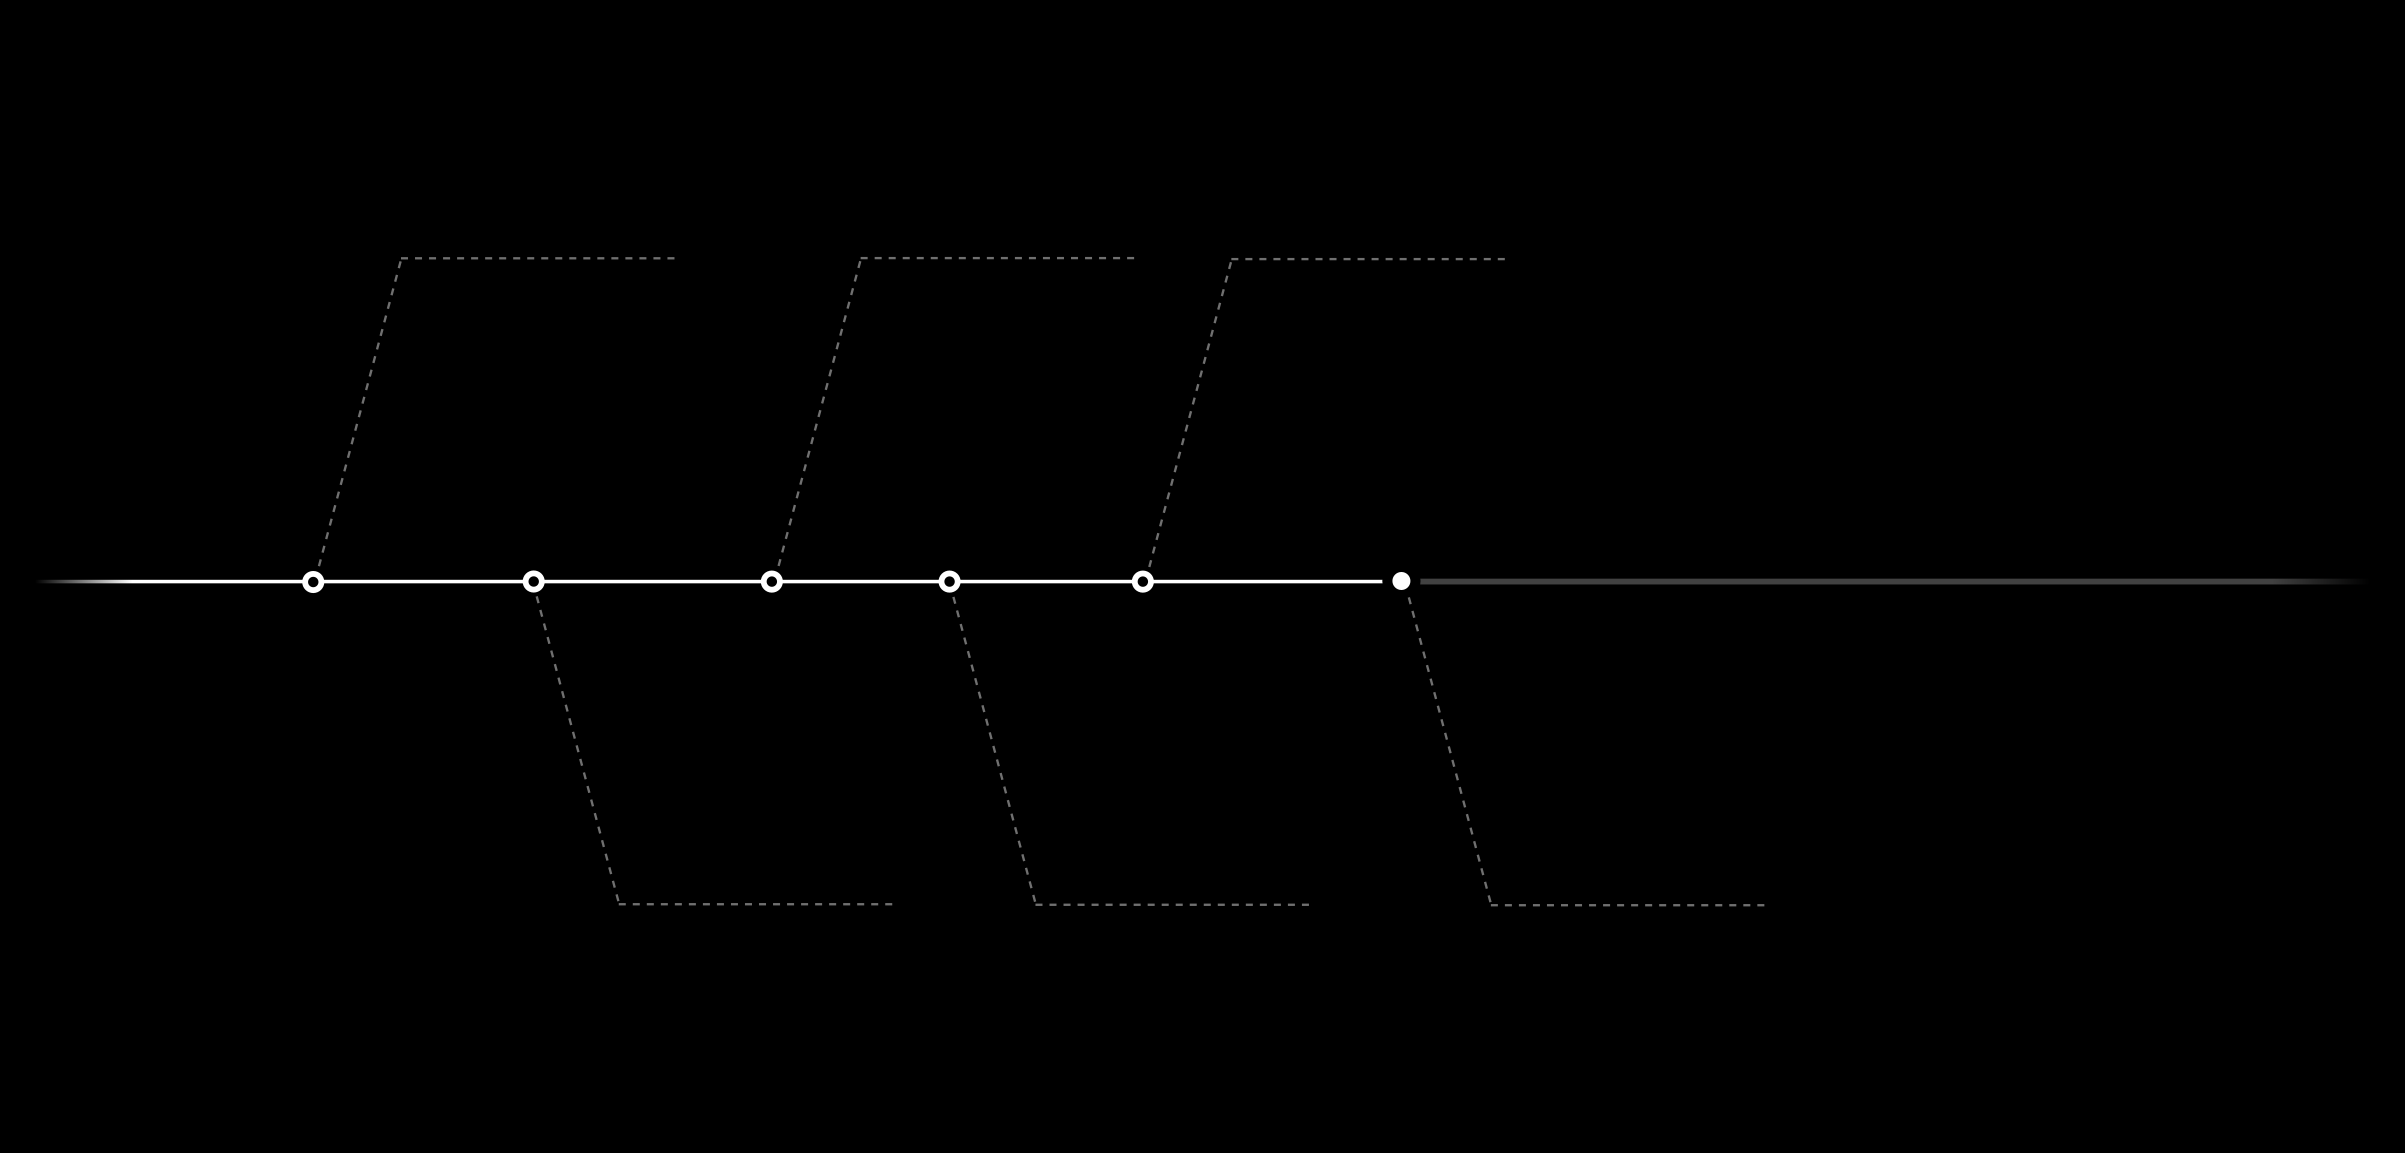
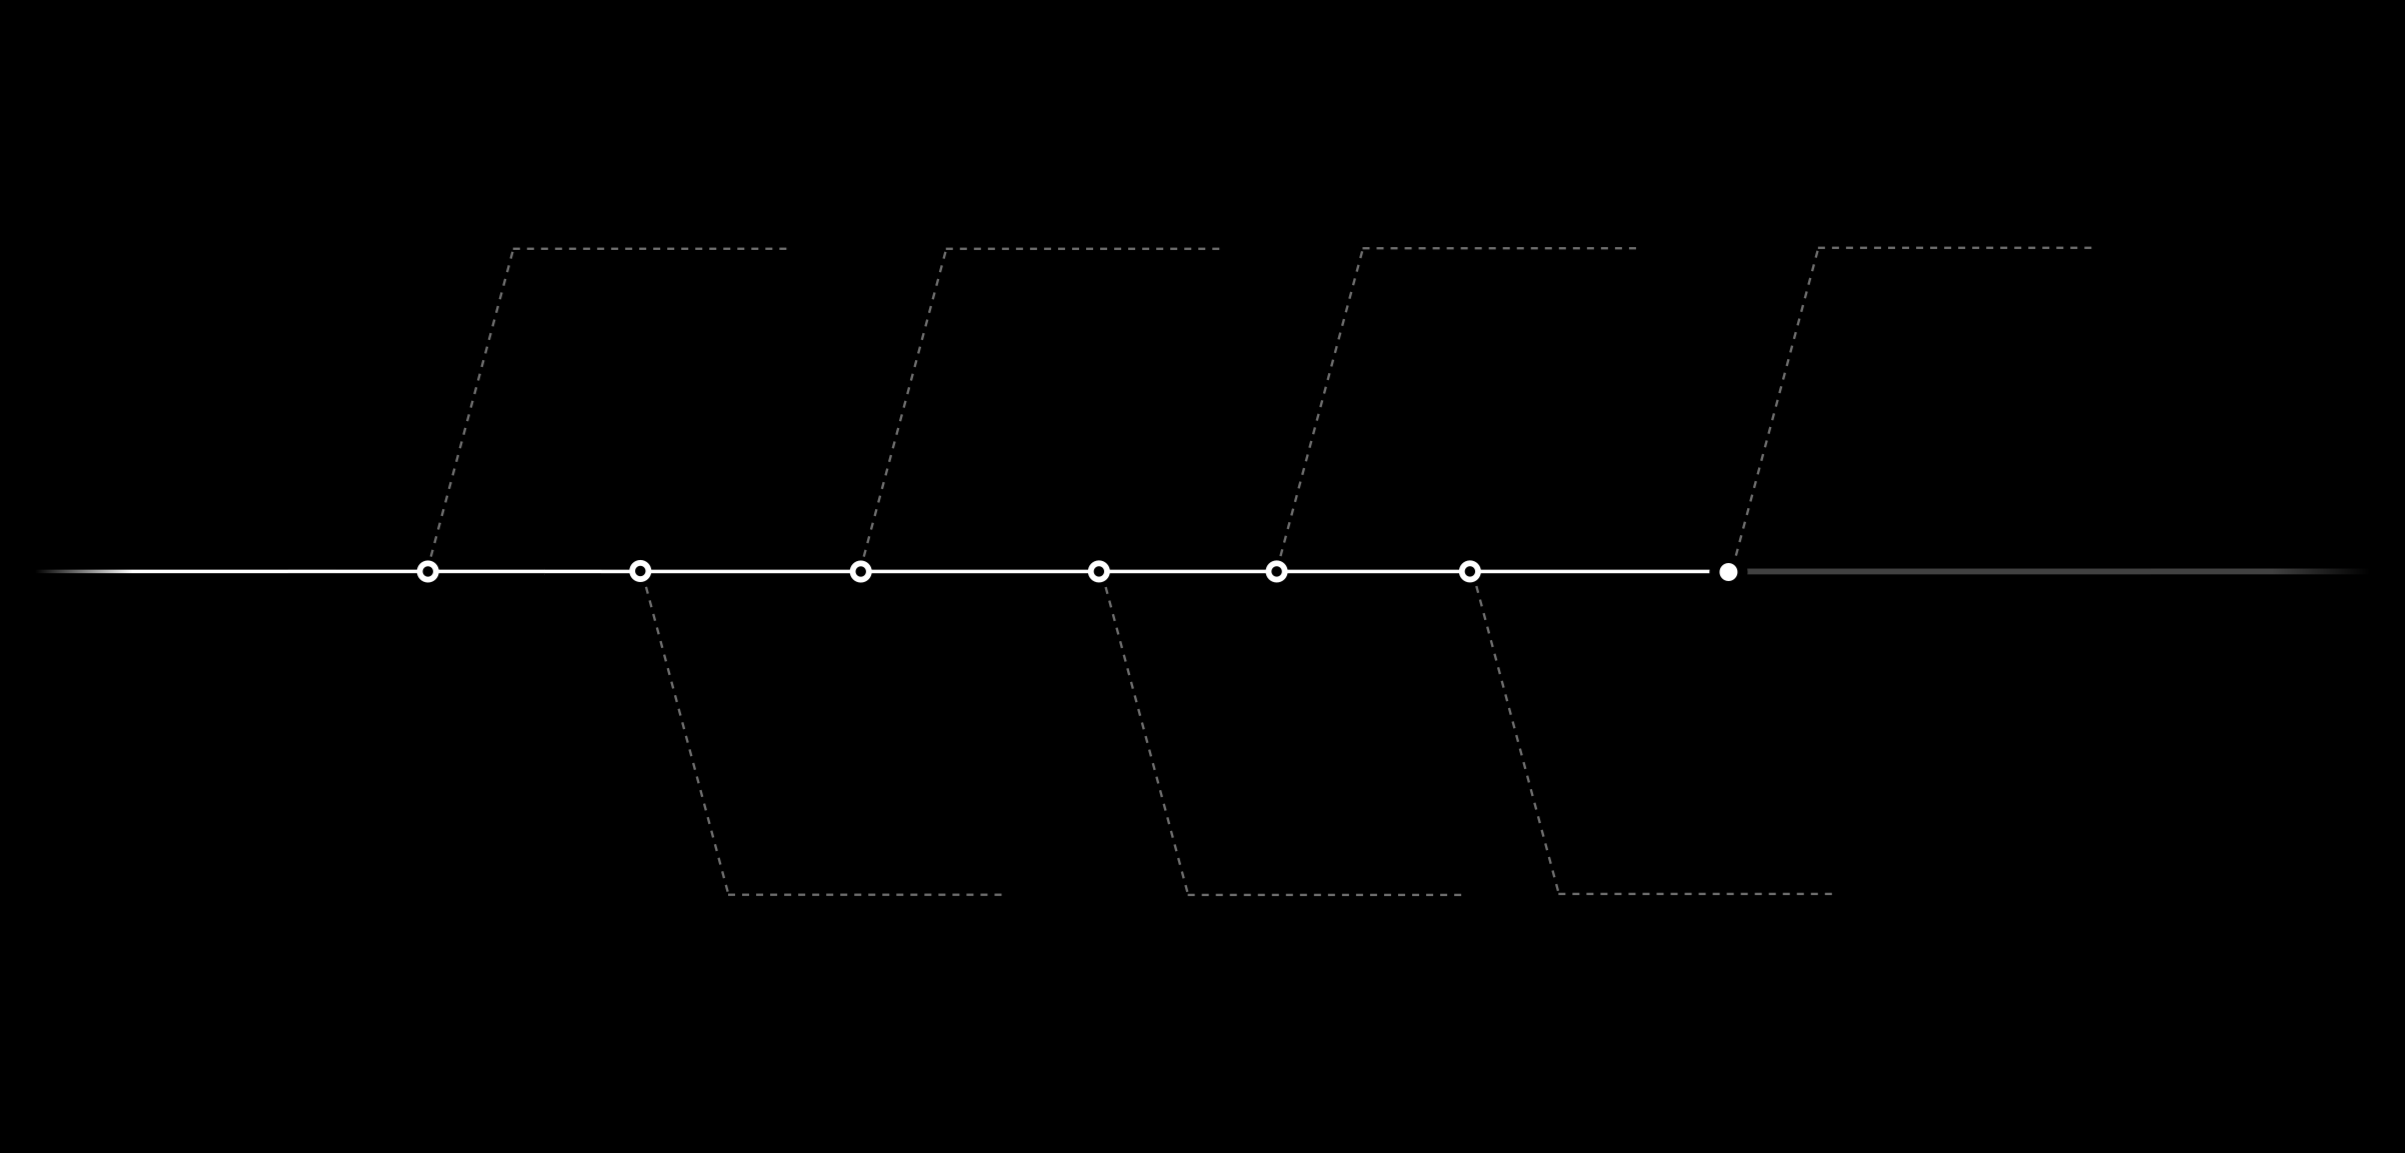
timeline

Changed region(s): [[0.0312, 0.4683, 0.9667, 0.5308]]

diff --git a/index.html b/index.html
@@ -15,9 +15,10 @@
         <div class="header">
             <p class="name">AITOR GOMEZ</p>
             <p class="name" style="font-size: 15px;"><a target="_blank" href="https://vbn.aau.dk/da/persons/arg">POSTDOC</a> @AALBORG UNIVERSITY</p>
-            <p class="name" style="font-size: 15px;"><a target="_blank" href="https://scholar.google.com/citations?user=LBQKamgAAAAJ&hl=en">+ GOOGLE SCHOLAR</a></p>
-            <p class="name" style="font-size: 15px;"><a target="_blank" href="https://www.linkedin.com/in/aitor-rg/">+ LINKEDIN</a></p>
-            <p class="name" style="font-size: 15px;"><a target="_blank" href="mailto:arg@es.aau.dk">+ REACH OUT</a></p>
+            <p class="name" style="font-size: 15px;"><a target="_blank" href="https://www.en.space.aau.dk/aau-space-group">AAU SPACE</a></p>
+            <!-- <p class="name" style="font-size: 15px;"><a target="_blank" href="https://scholar.google.com/citations?user=LBQKamgAAAAJ&hl=en">GOOGLE SCHOLAR</a></p> -->
+            <p class="name" style="font-size: 15px;"><a target="_blank" href="https://www.linkedin.com/in/aitor-rg/">LINKEDIN</a></p>
+            <p class="name" style="font-size: 15px;"><a target="_blank" href="mailto:arg@es.aau.dk">REACH OUT</a></p>
         </div>
 
         <div class="fixed-gradient-1"></div>
@@ -43,28 +44,30 @@
 
 
             <div class="timeline">
-                <span class="timeline-item" style="left:213px;top:110px">BS, INDUSTRIAL ENGINEERING</span>
-                <span class="timeline-item" style="left:490px;top:110px">RESEARCH ASSISTANT</span>
-                <span class="timeline-item" style="left:698px;top:110px">VISITING SCHOLAR</span>
+                <span class="timeline-item" style="left:261px;top:109px">BSc - INDUSTRIAL ENGINEERING</span>
+                <span class="timeline-item" style="left:487px;top:109px">MSc - AUTOM. AND CONTROL</span>
+                <span class="timeline-item" style="left:706px;top:109px">VISITING SCHOLAR</span>
+                <span class="timeline-item" style="left:945px;top:109px">POSTDOC</span>
 
-                <span class="timeline-item-subtitle" style="text-align:right;left:200px;top:138px">BARCELONA SCHOOL OF INDUSTRIAL ENGINEERING</span>
-                <span class="timeline-item-subtitle" style="left:472px;top:138px">DRONE RESEARCH LAB, AAU</span>
-                <span class="timeline-item-subtitle" style="left:683px;top:138px">UNIVERSITY AT BUFFALO</span>
+                <span class="timeline-item-subtitle" style="left:257px;top:131px;">ETSEIB, UPC</span>
+                <span class="timeline-item-subtitle" style="left:485px;top:131px">AALBORG UNIVERSITY</span>
+                <span class="timeline-item-subtitle" style="left:703px;top:131px">UNIVERSITY AT BUFFALO</span>
+                <span class="timeline-item-subtitle" style="left:942px;top:131px">AAU ROCKET SCIENCE</span>
 
-                <span class="timeline-item-description" style="left:656px;top:170px">Collaboration with Prof. John Crassidis on spacecraft maneuver determination</span>
+                <span class="timeline-item-description" style="left:258px;top:170px">Obtained engineering degree. Lectured university students in algebra and differential equations</span>
+                <span class="timeline-item-description" style="left:703px;top:170px">Collaboration with Prof. John Crassidis on spacecraft maneuver determination</span>
+                <span class="timeline-item-description" style="left:942px;top:170px">ESA projects developing innovative GNC algorithms for reusable launchers. Supervised by Prof. Jakob Stoustrup</span>
 
-                <span class="timeline-item" style="left:342px;top:480px">MS, CONTROL OF SYSTEMS</span>
-                <span class="timeline-item" style="left:591px;top:480px">PHD, SAFE CONTROL</span>
-                <span class="timeline-item" style="left:879px;top:480px">POSTDOC</span>
+                <span class="timeline-item" style="left:372px;top:471px">RESEARCH ASSISTANT</span>
+                <span class="timeline-item" style="left:613px;top:471px">RESEARCHER</span>
+                <span class="timeline-item" style="left:808px;top:471px">PhD - SAFE CONTROL</span>
 
-                <span class="timeline-item-subtitle" style="left:372px;top:453px">AALBORG UNIVERISTY</span>
-                <span class="timeline-item-subtitle" style="left:590px;top:453px">AALBORG UNIVERISTY</span>
+                <span class="timeline-item-subtitle" style="left:372px;top:433px">INSTITUTE OF ROBOTICS AND INDUSTRIAL INFORMATICS, IRI</span>
+                <span class="timeline-item-subtitle" style="left:610px;top:450px">DRONE RESEARCH LAB, AAU</span>
                 <!-- <span class="timeline-item-subtitle" style="left:562px;top:453px">LEARNING AND DECISION LAB</span> -->
-                <!-- <span class="timeline-item-subtitle" style="left:472px;top:453px">AALBORG UNIVERSITY</span> -->
-                <span class="timeline-item-subtitle" style="left:830px;top:453px">AAU ROCKET SCIENCE</span>
+                <span class="timeline-item-subtitle" style="left:805px;top:450px">AALBORG UNIVERSITY</span>
 
-                <span class="timeline-item-description" style="left:547px;top:385px">Supervised by Prof. Rafal Wisniewski. Investigating GNC methods for safe spacecraft operations</span>
-                <span class="timeline-item-description" style="left:786px;top:385px">ESA project with Deimos and Orbex developing GNC algorithms for Launchers</span>
+                <span class="timeline-item-description" style="left:805px;top:375px">Developing GNC methods for safe spacecraft operations. Supervised by Prof. Rafal Wisniewski</span>
 
             </div>
 

diff --git a/style-v3.css b/style-v3.css
@@ -188,10 +188,11 @@ body {
 }
 .timeline-item {
     position: absolute;
-    float: left;
-    width: 142px;
+    /* float: left; */
+    width: 152px;
     font-family: 'Oswald', sans-serif;
     font-size: 13px;
+    text-align: right;
     color: white;
 }
 .timeline-item-subtitle {
@@ -199,18 +200,19 @@ body {
     float: left;
     width: 155px;
     font-family: 'Oswald', sans-serif;
-    font-size: 12px;
+    font-size: 11px;
+    text-align: right;
     color: #777;
 }
 
 .timeline-item-description {
     position: absolute;
     float: left;
-    width: 140px;
+    width: 155px;
     font-family: sans-serif;
     font-size: 11px;
     text-align: right;
-    color: #777;
+    color: #555;
 }
 
 .section {
